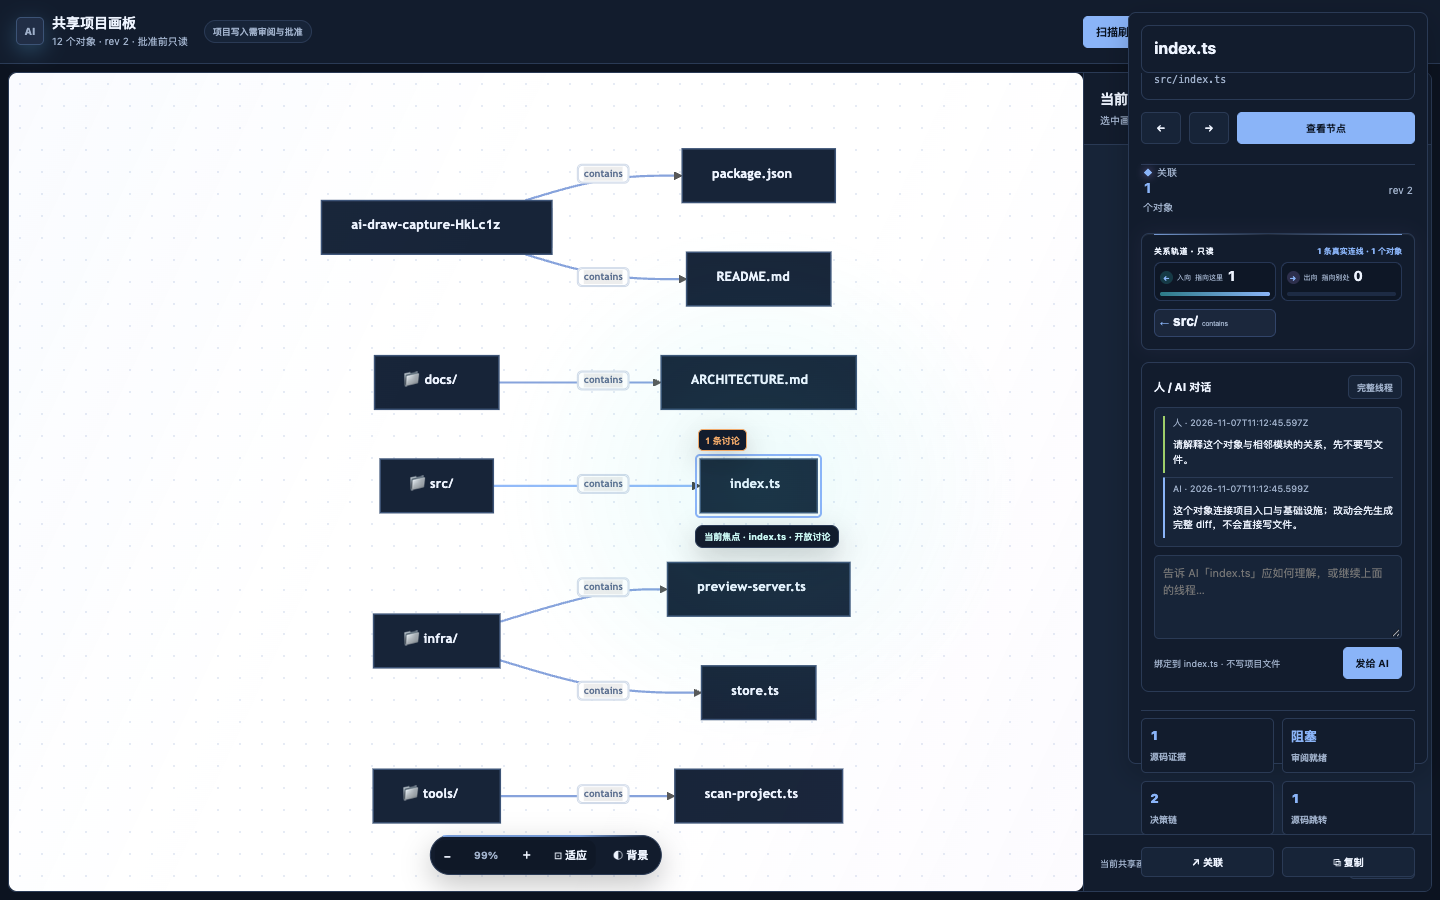
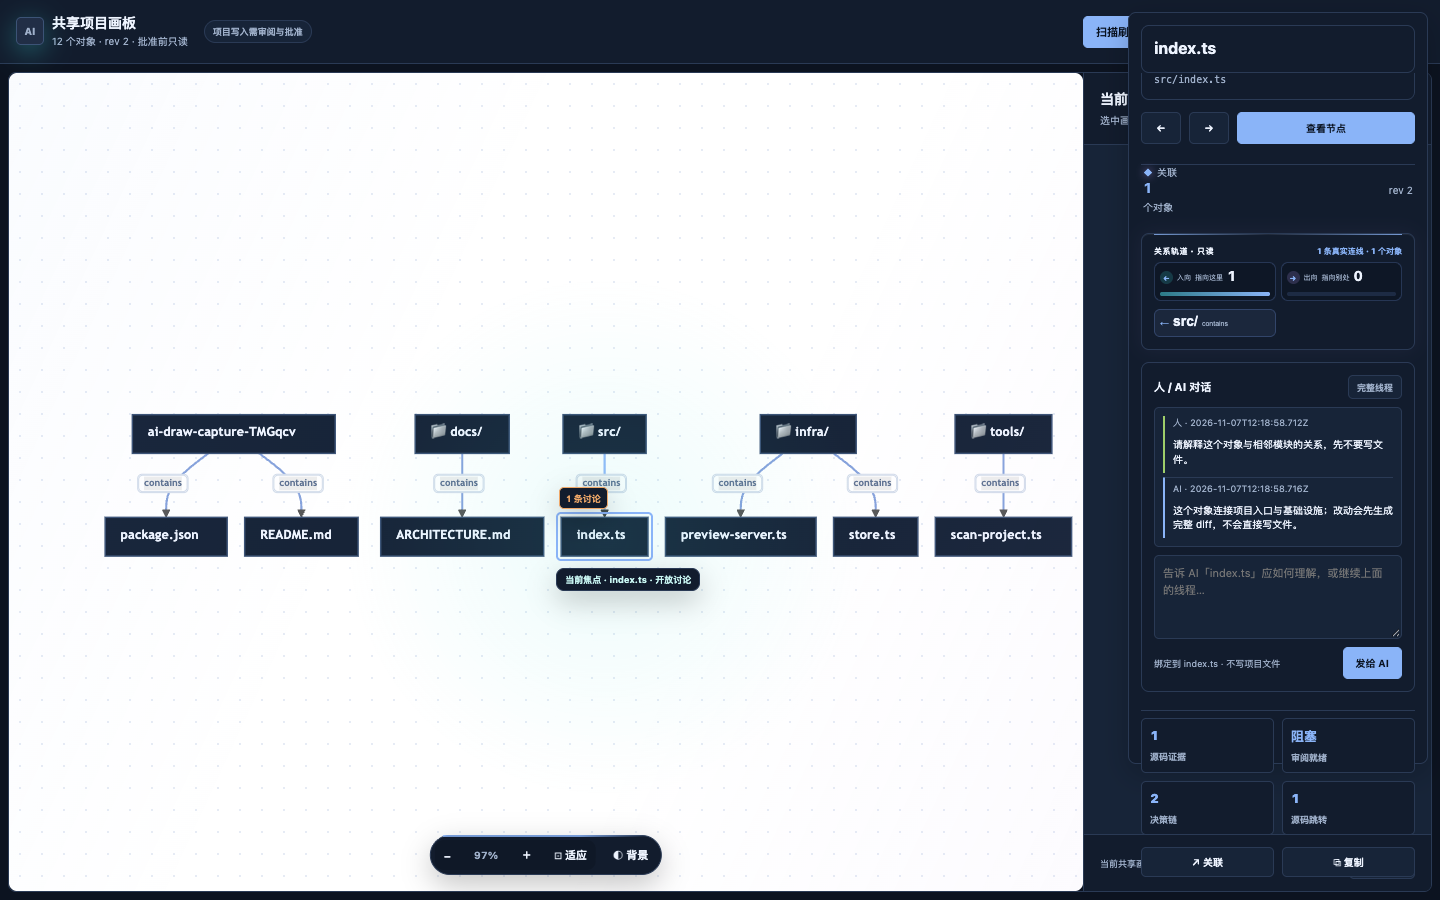
chore: clean legacy diagrams and regenerate readable board

diff --git a/src/infra/project-scanner.ts b/src/infra/project-scanner.ts
@@ -20,8 +20,10 @@ const CONFIG_BASENAMES = new Set([
   "package.json", "tsconfig.json", "package-lock.json", "pnpm-lock.yaml", "yarn.lock",
   "vitest.config.ts", "vite.config.ts", "eslint.config.js", ".gitignore", ".env.example",
 ]);
-const MAX_DEPTH = 4;
-const MAX_FILES = 400;
+const MAX_DEPTH = 2;
+const MAX_FILES = 40;
+const MAX_FILES_PER_GROUP = 3;
+const LARGE_SCAN_NODE_COUNT = 40;
 const MAX_IMPORTS_PER_FILE = 8;
 const MAX_EVIDENCE_PER_FILE = 5;
 const MAX_FIRST_LINE_BYTES = 1024 * 1024;
@@ -107,10 +109,17 @@ export interface ScanOptions {
   includeHidden?: boolean;
   maxDepth?: number;
   maxFiles?: number;
+  groupSummary?: boolean;
 }
 
 export async function scanProject(options: ScanOptions): Promise<ProjectScanResult> {
-  const { workspaceRoot, includeHidden = false, maxDepth = MAX_DEPTH, maxFiles = MAX_FILES } = options;
+  const {
+    workspaceRoot,
+    includeHidden = false,
+    maxDepth = MAX_DEPTH,
+    maxFiles = MAX_FILES,
+    groupSummary = maxFiles === MAX_FILES,
+  } = options;
   const nodes: ProjectScanNode[] = [];
   const edges: ProjectScanEdge[] = [];
   const absoluteById = new Map<string, string>();
@@ -194,7 +203,7 @@ export async function scanProject(options: ScanOptions): Promise<ProjectScanResu
     }
   }
 
-  return {
+  const result: ProjectScanResult = {
     version: 1,
     workspaceRoot,
     generatedAt: nowIso(),
@@ -209,6 +218,96 @@ export async function scanProject(options: ScanOptions): Promise<ProjectScanResu
       ignoredPaths,
       evidencedNodes: nodes.filter((node) => (node.sourceEvidence?.length ?? 0) > 0).length,
       totalEvidence: nodes.reduce((total, node) => total + (node.sourceEvidence?.length ?? 0), 0),
+    },
+  };
+  return groupSummary && result.nodes.length > LARGE_SCAN_NODE_COUNT
+    ? summarizeScanForBoard(result, maxFiles)
+    : result;
+}
+
+function summarizeScanForBoard(scan: ProjectScanResult, maxFiles: number): ProjectScanResult {
+  const keep = new Set<string>();
+  const root = scan.nodes.find((node) => node.path === ".");
+  for (const node of scan.nodes) {
+    if (node.path === "." || (node.kind === "directory" && node.metadata?.depth === 0)) keep.add(node.id);
+  }
+  const groups = new Map<string, ProjectScanNode[]>();
+  for (const node of scan.nodes) {
+    if (keep.has(node.id)) continue;
+    const group = (node.group ?? "root") === "root" ? "root files" : node.group ?? "root files";
+    const bucket = groups.get(group) ?? [];
+    bucket.push(node);
+    groups.set(group, bucket);
+  }
+  const nodes = [...scan.nodes.filter((node) => keep.has(node.id))];
+  const edges: ProjectScanEdge[] = [];
+  for (const [group, bucket] of groups) {
+    const groupId = stableId("node", "board-group", group);
+    nodes.push({
+      id: groupId,
+      label: `📁 ${group}`,
+      kind: "directory",
+      path: group === "root files" ? "." : group,
+      group,
+      metadata: { boardGroup: true, totalCount: bucket.length },
+    });
+    if (root) edges.push({
+      id: stableId("edge", "board-group", root.id, groupId),
+      from: root.id,
+      to: groupId,
+      label: "contains",
+      kind: "contains",
+    });
+    bucket.sort((left, right) => {
+      const rank = (node: ProjectScanNode) => node.kind === "documentation" ? 0 : node.kind === "config" ? 1 : 2;
+      return rank(left) - rank(right) || left.path.localeCompare(right.path);
+    });
+    const visible = bucket.slice(0, MAX_FILES_PER_GROUP);
+    for (const node of visible) {
+      keep.add(node.id);
+      nodes.push(node);
+      edges.push({
+        id: stableId("edge", "board-group-member", groupId, node.id),
+        from: groupId,
+        to: node.id,
+        label: "contains",
+        kind: "contains",
+      });
+    }
+    const hidden = bucket.length - visible.length;
+    if (hidden > 0) {
+      const summaryId = stableId("node", "group-summary", group);
+      nodes.push({
+        id: summaryId,
+        label: `… 另有 ${hidden} 个对象`,
+        kind: "documentation",
+        path: `${group}/…`,
+        group,
+        metadata: { summary: true, hiddenCount: hidden },
+      });
+      edges.push({
+        id: stableId("edge", "board-group-summary", groupId, summaryId),
+        from: groupId,
+        to: summaryId,
+        label: `${hidden} more`,
+        kind: "contains",
+      });
+    }
+  }
+  const bounded = nodes.slice(0, maxFiles + 1);
+  const boundedIds = new Set(bounded.map((node) => node.id));
+  return {
+    ...scan,
+    nodes: bounded,
+    edges: edges.filter((edge) => boundedIds.has(edge.from) && boundedIds.has(edge.to)),
+    stats: {
+      ...scan.stats,
+      files: bounded.filter((node) => node.kind !== "directory" && node.path !== ".").length,
+      sourceFiles: bounded.filter((node) => SOURCE_EXTENSIONS.has(path.extname(node.path))).length,
+      testFiles: bounded.filter((node) => node.kind === "test").length,
+      configFiles: bounded.filter((node) => node.kind === "config").length,
+      evidencedNodes: bounded.filter((node) => (node.sourceEvidence?.length ?? 0) > 0).length,
+      totalEvidence: bounded.reduce((total, node) => total + (node.sourceEvidence?.length ?? 0), 0),
     },
   };
 }

diff --git a/src/tools/scan-project.ts b/src/tools/scan-project.ts
@@ -13,20 +13,22 @@ export function registerScanProject(server: McpServer, ctx: ToolContext) {
     " 只读扫描项目文件，不写源代码；图形与会话保存不等于项目写入授权。如需根据批注修改代码，请使用 get_visual_context 生成提案。",
     {
       title: z.string().optional().describe("Diagram title"),
-      max_depth: z.number().int().min(1).max(8).optional().describe("Maximum directory depth (default 4)"),
-      max_files: z.number().int().min(10).max(1000).optional().describe("Maximum nodes to include (default 400)"),
+      max_depth: z.number().int().min(1).max(8).optional().describe("Maximum directory depth (default 2; use 4 for a deeper tree)"),
+      max_files: z.number().int().min(10).max(1000).optional().describe("Maximum nodes to include (default 40 with grouped board summaries; set higher for a full tree)"),
       include_hidden: z.boolean().optional().describe("Include dotfiles/directories other than protected ones (default false)"),
       output_format: z.enum(["svg", "png"]).optional(),
       open_panel: z.boolean().optional().describe("Open the preview panel in the IDE (default true); set false for headless workflows"),
       render: z.boolean().optional().describe("Render SVG/PNG assets (default true); set false only for fast headless graph/state checks"),
+      group_summary: z.boolean().optional().describe("Group omitted files into bounded summary nodes (default true only when max_files uses its default)"),
     },
-    async ({ title, max_depth, max_files, include_hidden, output_format, open_panel, render }) => {
+    async ({ title, max_depth, max_files, include_hidden, output_format, open_panel, render, group_summary }) => {
       try {
         const result = await ctx.visualSync.sync({
           title,
           maxDepth: max_depth,
           maxFiles: max_files,
           includeHidden: include_hidden,
+          groupSummary: group_summary,
           format: output_format ?? ctx.config.defaultFormat,
           source: "ai",
           openPanel: open_panel,

diff --git a/src/infra/visual-sync-service.ts b/src/infra/visual-sync-service.ts
@@ -14,6 +14,7 @@ export interface VisualSyncOptions {
   title?: string;
   maxDepth?: number;
   maxFiles?: number;
+  groupSummary?: boolean;
   includeHidden?: boolean;
   format?: AppConfig["defaultFormat"];
   source: "ai" | "human";
@@ -36,11 +37,15 @@ export interface VisualSyncResult {
 }
 
 function mermaidSafe(value: string): string {
-  return value.replace(/["[\]{}|<>]/g, " ").replace(/\s+/g, " ").trim();
+  return value
+    .replace(/["[\]{}|<>]/g, " ")
+    .replace(/[📁…]/gu, " ")
+    .replace(/\s+/g, " ")
+    .trim();
 }
 
 function graphToMermaid(nodes: VisualGraph["nodes"], edges: VisualGraph["edges"]): string {
-  const lines = ["graph LR"];
+  const lines = ["%%{init: {'flowchart': {'nodeSpacing': 18, 'rankSpacing': 42, 'padding': 8}}}%%", "flowchart TB"];
   for (const node of nodes) {
     const label = mermaidSafe(node.label);
     const shape = node.kind === "directory" ? `["📁 ${label}"]` : `["${label}"]`;
@@ -79,6 +84,7 @@ export class VisualSyncService {
       maxDepth: options.maxDepth,
       maxFiles: options.maxFiles,
       includeHidden: options.includeHidden,
+      groupSummary: options.groupSummary,
     });
     const activeDiagramId = sessions.getSnapshot().activeDiagramId;
     const activeRecord = activeDiagramId ? store.get(activeDiagramId) : undefined;

diff --git a/src/infra/templates/index.html b/src/infra/templates/index.html
@@ -4791,7 +4791,7 @@ function fitCanvasWithObjectCard() {
 
 loadPrefs();
 // Apply theme before initializing mermaid
-mermaid.initialize({ startOnLoad: false, theme: prefs.theme || 'default', securityLevel: 'loose' });
+mermaid.initialize({ startOnLoad: false, theme: prefs.theme || 'default', securityLevel: 'loose', flowchart: { nodeSpacing: 18, rankSpacing: 42, padding: 8 } });
 applyPrefs();
 // ────────────────────────────────────────────────────────────────
 
@@ -5415,7 +5415,7 @@ $('#selTheme').addEventListener('change', async () => {
   const theme = $('#selTheme').value;
   prefs.theme = theme;
   savePrefs();
-  await mermaid.initialize({ theme, securityLevel: 'loose' });
+  await mermaid.initialize({ theme, securityLevel: 'loose', flowchart: { nodeSpacing: 18, rankSpacing: 42, padding: 8 } });
   renderDiagram($('#codeEditor').value);
 });
 

diff --git a/docs/README.md b/docs/README.md
@@ -13,7 +13,7 @@ Start with the [main README](../README.md) for installation and the product over
 | [COMPETITIVE_RESEARCH.md](COMPETITIVE_RESEARCH.md) | Maintainers, contributors | Market map, positioning, and product lessons from Mermaid/whiteboard/MCP tools |
 | [collaboration-loop.svg](collaboration-loop.svg) | Everyone | Product concept: shared board loop and human approval boundary |
 | [collaboration-workbench.svg](collaboration-workbench.svg) | Everyone | Target canvas interaction concept; not a screenshot of shipped UI |
-| [shared-board-panel.png](shared-board-panel.png) | Everyone | Canonical current `0.3.x` shared-board screenshot |
+| [shared-board-panel.png](shared-board-panel.png) | Everyone | Only retained UI screenshot; canonical current `0.3.x` shared-board capture |
 | [DEPENDENCY_MAINTENANCE.md](DEPENDENCY_MAINTENANCE.md) | Maintainers | Dependabot policy, verification order, and major-version decisions |
 | [LAUNCH_KIT.md](LAUNCH_KIT.md) | Maintainers | Copy for GitHub About, releases, Show HN, X/Mastodon, and Chinese communities |
 | [GOVERNANCE.md](GOVERNANCE.md) | Maintainers, contributors | Public surfaces, maintainer checklist, and observed metadata drift |
@@ -36,11 +36,12 @@ Start with the [main README](../README.md) for installation and the product over
 | [ADR/0022-shared-visual-board-is-the-product.md](ADR/0022-shared-visual-board-is-the-product.md) | Contributors, reviewers | Why the shared visual board is the product and MCP is the AI access channel |
 | [ADR/0023-board-modules-and-library-boundary.md](ADR/0023-board-modules-and-library-boundary.md) | Contributors, reviewers | Why one board header, canvas, and object inspector replace the legacy status layers |
 | [../ROADMAP.md](../ROADMAP.md) | Everyone | Shipped direction, upcoming work, and explicit non-goals |
-| [../AGENTS.md](../AGENTS.md) | AI coding agents | Repository map, coding conventions, tool registration, and safety rules |
 | [../CONTRIBUTING.md](../CONTRIBUTING.md) | Contributors | Local setup, verification, PR expectations |
 | [../SECURITY.md](../SECURITY.md) | Security reviewers | Threat model, supported versions, vulnerability reporting |
 | [../CHANGELOG.md](../CHANGELOG.md) | Users | Versioned release notes |
 | [../examples/README.md](../examples/README.md) | New users | MCP configs, diagram examples, and the end-to-end collaboration demo |
+
+Legacy UI screenshots were removed during the 0.3.x shared-board consolidation. The versioned SVG diagrams above remain concept assets; `npm run ui:shots` regenerates the one canonical PNG from a temporary demo project.
 
 Portable `ai-draw-session-*.json` bundles are for bug reports and reproducible examples. They contain graph/chat/annotation-thread/proposal state, finite human coordinates, and the validated human focus, but never one-time approval grants; importing a bundle requires explicit human confirmation and never writes project files. The activity timeline is a derived, read-only view of those same source records and never grants project-write capability.
 

diff --git a/CHANGELOG.md b/CHANGELOG.md
@@ -8,6 +8,10 @@ The format is based on [Keep a Changelog](https://keepachangelog.com/en/1.1.0/),
 
 ### Added
 
+- 清理旧界面截图与本机图库（2026-11-07）：删除 13 张旧布局 PNG，只保留 `docs/shared-board-panel.png` 作为唯一当前界面基线；`npm run ui:shots` 改为只复现这一张图，离线守卫会拒绝再次堆积 `docs/*.png`。清理本地运行时的旧 `output/diagrams.json`、`output/.ai-draw/session.json` 与历史 SVG/PNG，再从当前工作区重新扫描生成一张新图，避免旧版本协议或旧会话把当前画板带偏。版本化 SVG 概念图仍保留；不改变 26 个 MCP 工具、version 1 协议、完整 diff、人工批准、一次性确认号或项目写入闸门。
+
+- 可读首屏扫描（2026-11-07）：默认项目扫描从 4 层 / 400 节点收束为 2 层 / 40 节点，并只在默认参数下把大项目按顶层分组生成「根目录 → 分组 → 代表对象 / 另有 N 个对象」的有界布局，避免 Mermaid 把上百个平铺对象排成极窄竖条。显式 `max_files` / `max_depth` 仍可展开更完整的结构，`group_summary` 可关闭分组收束；汇总节点只是 version 1 图形对象，不新增工具、不改协议字段、不授权项目写入。
+
 - 功能模块与前端组成收束（2026-11-07）：把双顶栏、旧渲染工具栏、Flow 流程轨和多个悬浮状态卡从默认首屏移除，改为「单一画板栏 + 连续画布 + 固定对象检视器」。右侧统一承载当前对象、源码证据、关系、人 / AI 有序线程与留言；图库和审阅台成为按需抽屉，分别处理本机历史图与完整上下文 / 逐行 diff。新增浏览器回归确认旧栏与流程轨隐藏、对象检视器始终可见，更新 ADR 0023、产品方向、路线图、双语 README 与可复现截图。26 个 MCP 工具、version 1 协议、完整 diff、人工批准、一次性确认号与项目写入闸门均不变。
 
 - 画板模块与图库边界（2026-11-07）：默认首屏重排为「画板栏 + 连续画布 + 固定对象线程」，把扫描刷新、保存图形、图库、下载/源码工具、工作台和审阅入口按语义分开；图库改为按需抽屉，支持搜索、当前画板标识、打开预览、返回当前画板、下载 SVG/PNG、复制 ID 与删除。打开历史图只切换本机预览，不改变 `activeDiagramId`、共享会话、对象线程或批准凭据；右侧会明确进入只读历史预览态。新增 [ADR 0023](docs/ADR/0023-board-modules-and-library-boundary.md)，同步浏览器回归、命令面板、快捷键与离线守卫。26 个 MCP 工具、version 1 协议、完整 diff、人工批准、一次性确认号与项目写入闸门均不变。

diff --git a/docs/ARCHITECTURE.md b/docs/ARCHITECTURE.md
@@ -28,7 +28,7 @@ IDE / human browser
 
 ## Collaboration path (0.3)
 
-1. AI 调用 `scan_project`，`project-scanner.ts` 只读扫描工作区（默认 4 层、最多 400 个节点），按 POSIX 相对路径派生确定性节点/连线 ID；对 1 MiB 以下的源码/Markdown 文本提取最多 5 条 version 1 `GraphSourceEvidence`（`definition` / `import` / `heading` 的 `file:line` 证据）。`visual-sync-service.ts` 把扫描结果交给 `mergeScannedGraph()` 生成 `VisualGraph`，同时复用同一套渲染、会话保存与 WebSocket 广播。
+1. AI 调用 `scan_project`，`project-scanner.ts` 只读扫描工作区（默认 2 层、最多 40 个节点；大项目按顶层分组保留骨架并生成有界「另有 N 个对象」汇总节点），按 POSIX 相对路径派生确定性节点/连线 ID；对 1 MiB 以下的源码/Markdown 文本提取最多 5 条 version 1 `GraphSourceEvidence`（`definition` / `import` / `heading` 的 `file:line` 证据）。`visual-sync-service.ts` 把扫描结果交给 `mergeScannedGraph()` 生成 `VisualGraph`，同时复用同一套渲染、会话保存与 WebSocket 广播。
 2. `SessionStore` 把图、修订号、消息、批注、提案写入 `OUTPUT_DIR/.ai-draw/session.json`。
 3. 人类可在本机浏览器画布中改节点/连线、选取范围、给当前焦点或画布范围写留言、在既有批注线程里续答，或重新扫描项目；图形写入会提升 `graphRevision` 并通过 WebSocket 同步。主输入复用 `POST /api/collab/annotations`，线程回复复用 `POST /api/collab/annotations/:id/reply`；两条路径都只写共享会话，不写项目文件。AI 可通过 MCP 在同一批注线程回复，面板会保留作者与顺序。`SessionStore.validateGraph()` 校验节点/连线/批注 ID、有限坐标、路径/分组/连线类型、回复结构与引用完整性。
 4. AI 调用 `get_visual_context` 读取待处理消息、未解决批注、节点批注线程与 `annotationThreads.nextActor`、当前图、人类当前选中节点的 `focus`、有界多节点的 `selectionScope`、按节点聚合的 `intentSummary`，以及 `activityTimeline` 的只读派生事件；用 `reply_to_visual_context` 回信、内联回复线程、标记已处理。批注保存 `nodeLabel` / `nodePath` / `graphRevision` / `anchorStatus`：节点改名或路径变化后标为 `outdated`，节点删除后标为 `detached`；`staleThreads` 不进入 `intentByNode`，AI 应等待人类确认或重锚，不能把旧讨论当作当前写入意图。

diff --git a/docs/PRODUCT_DIRECTION.md b/docs/PRODUCT_DIRECTION.md
@@ -87,7 +87,7 @@ The repository already has project scanning, editable graphs, selection and focu
 - Use consistent plain-language names and a compact set of visual states for human input, AI response, evidence, unresolved intent, and proposed code changes.
 - Rework first-run guidance and capture one canonical screenshot that demonstrates the shared board loop.
 
-**Status:** implemented. The default workspace is the full canvas with one board header and one fixed object inspector; first-run guidance offers a direct read-only project scan. The on-demand library handles local diagram previews and downloads without silently switching the shared session, and the review surface holds graph editing, derived context, proposal review, and approval. `docs/shared-board-panel.png` is the reproducible canonical screenshot.
+**Status:** implemented. The default workspace is the full canvas with one board header and one fixed object inspector; first-run guidance offers a direct read-only project scan. The on-demand library handles local diagram previews and downloads without silently switching the shared session, and the review surface holds graph editing, derived context, proposal review, and approval. `docs/shared-board-panel.png` is the reproducible canonical screenshot and the only retained UI capture.
 
 **Complete when:** a first-time user can identify the shared project model, add a contextual correction, see the AI-side update, and find code review without navigating a multi-step dashboard. Keyboard, narrow-screen, empty, loading, and error states remain usable; broader cross-breakpoint validation remains part of ongoing UI maintenance.
 

diff --git a/ROADMAP.md b/ROADMAP.md
@@ -8,7 +8,7 @@ This roadmap sequences work toward the product contract in [docs/PRODUCT_DIRECTI
 - Local browser canvas with project scanning, editable nodes and edges, focus, selection, annotations, AI-readable context, and proposal review.
 - Version 1 session, graph, annotation, and proposal contracts with source evidence, graph diffs, and bounded read-only projections.
 - Shared board notes persist; people and AI can reply in the same anchored thread. Copyable AI context is a separate read-only utility.
-- The default panel is one board header, one shared canvas, and one fixed object inspector. The legacy brand header, Flow rail, duplicate render toolbar, and floating status cards are out of the default view. The diagram library is an on-demand drawer for local previews and downloads; the review surface holds graph editing, derived context, and change diffs. `docs/shared-board-panel.png` is the canonical shared-board capture and older captures remain development artifacts.
+- The default panel is one board header, one shared canvas, and one fixed object inspector. The legacy brand header, Flow rail, duplicate render toolbar, and floating status cards are out of the default view. The diagram library is an on-demand drawer for local previews and downloads; the review surface holds graph editing, derived context, and change diffs. `docs/shared-board-panel.png` is the canonical shared-board capture. Legacy UI screenshots were removed so the repository has one current visual baseline.
 
 ## Phase 0 — Product contract
 

diff --git a/AGENTS.md b/AGENTS.md
@@ -78,7 +78,7 @@ src/
 
 test/                         Vitest：批注线程、活动时间线、领域契约、MCP 集成测试、协作集成测试
 scripts/doctor.mjs            环境自检（含真实 Mermaid 渲染探针）
-scripts/capture-panel.mjs     用临时示例项目生成全部真实面板截图
+scripts/capture-panel.mjs     用临时示例项目生成唯一 canonical 界面截图
 scripts/github-maintenance.mjs GitHub About/topics 漂移检查、同步与 Release 创建维护者后备路径
 scripts/repo-check.mjs        离线一致性检查：发布文案、文档链接、脚本与 CHANGELOG
 scripts/generate-doc-assets.mjs 版本化 README 概念图；`npm run docs:assets` 生成、`--check` 校验
@@ -88,7 +88,7 @@ docs/README.md                文档地图
 docs/COMPETITIVE_RESEARCH.md  同类产品调研与定位
 docs/collaboration-loop.svg    README 概念图：共享画布闭环；由版本化脚本生成
 docs/collaboration-workbench.svg 目标画布交互概念图；不是当前界面截图
-docs/restrained-workspace-panel.png 当前 0.3.x 界面基线截图
+docs/shared-board-panel.png   唯一当前界面基线截图；由 `npm run ui:shots` 复现
 docs/DEPENDENCY_MAINTENANCE.md 依赖升级、CI 验证与重大版本决策记录
 docs/LAUNCH_KIT.md            GitHub/Release/社区宣发模板
 docs/GOVERNANCE.md             开源治理、维护清单与元数据漂移证据

diff --git a/README.en.md b/README.en.md
@@ -73,7 +73,7 @@ The current local panel opens on a full shared canvas. Its contextual inspector 
 
 ![Current shared board](https://raw.githubusercontent.com/2648782102/ai-draw-mcp/master/docs/shared-board-panel.png)
 
-This is the reproducible canonical shared-board capture. Other layout captures remain reproducible development artifacts, not parallel product definitions.
+This is the reproducible canonical shared-board capture. It is the only UI screenshot kept in the repository; legacy layout captures were removed so old panels cannot read as parallel product definitions.
 
 ## Safety model
 
